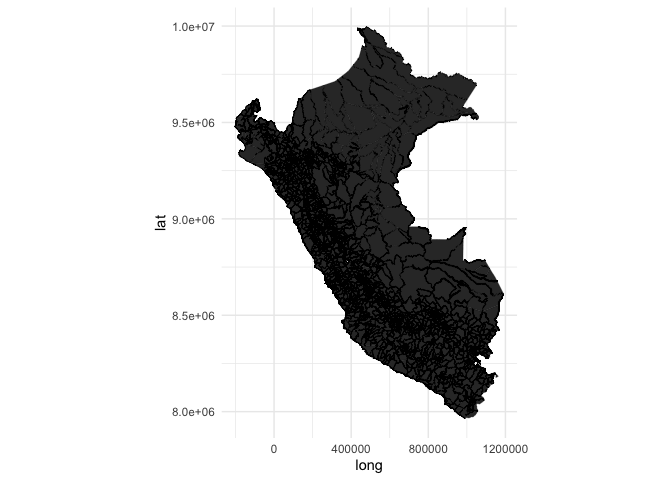
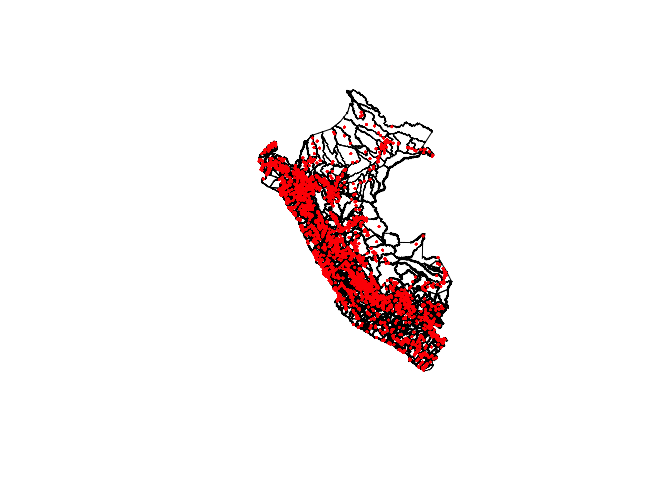
updated - 08/08/21

diff --git a/intro.md b/intro.md
@@ -91,17 +91,9 @@ going to be useful later on) as follow:
 ``` r
   enaho <- spTransform(enaho, crs(mun))
   
-  # A simplify version of the map for graph purpose
-  mun2 <- tidy(mun) 
-```
-
-    ## Regions defined for each Polygons
-
-``` r
-  ggplot(mun2, aes(x = long, y = lat, group = group)) +
-  geom_polygon(color = "black", size = 0.1) +
-  coord_equal() +
-  theme_minimal()
+  # And of course we can plot it together in a graph 
+  plot(mun) # And we can plot it 
+  plot(enaho, add = TRUE, col='red', pch=1, cex = .2) # And we can plot it
 ```
 
 ![](intro_files/figure-gfm/unnamed-chunk-5-1.png)<!-- -->
